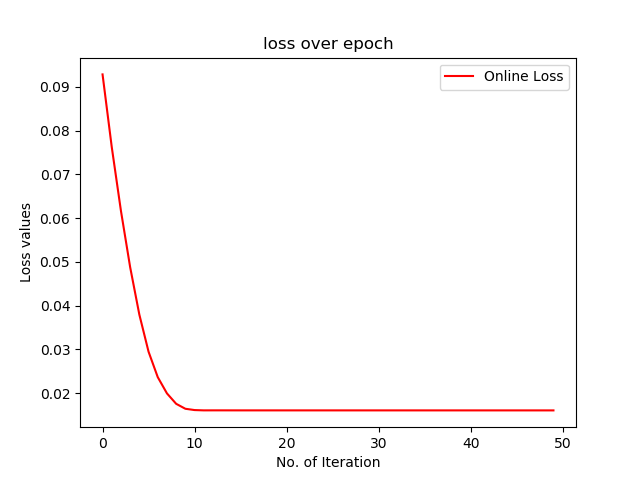
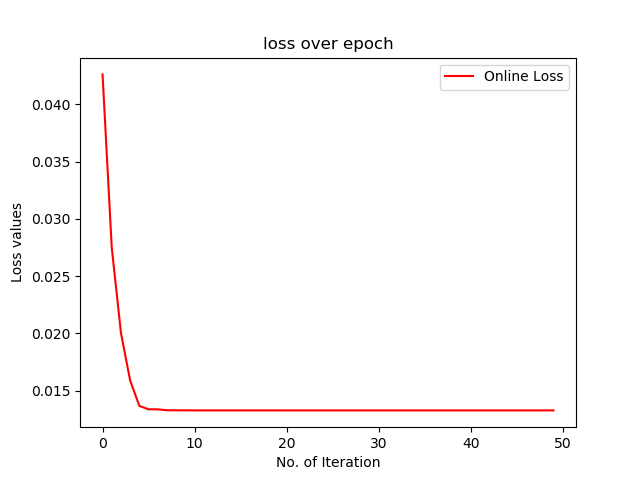
UpScaled: image size 256X212  4 extra CNN layer

diff --git a/train.py b/train.py
@@ -30,8 +30,8 @@ import config as args
 from img_utils import *
 from colorama import Fore, Back, Style
 
-WIDTH = 128
-HEIGHT = 106
+WIDTH = 256
+HEIGHT = 212
 
 ACT_SIZE = 4
 ACT_FET = 20
@@ -44,11 +44,17 @@ chan_layer_1 = 16
 chan_layer_2 = 16
 chan_layer_3 = 32
 chan_layer_4 = 32
+chan_layer_4 = 64
+chan_layer_5 = 128
+chan_layer_6 = 256
+chan_layer_7 = 512
+chan_layer_8 = 512
+
 pool_size = 3
 
 ''' Dimension of input image'''
-W = 128.0 ##!!!! Important to make it float to prevent integer division becomes zeros
-H = 106.0
+W = 256 ##!!!! Important to make it float to prevent integer division becomes zeros
+H = 212
 
 #Training Params
 epochs =50
@@ -59,7 +65,6 @@ sim_out_gt =np.random.rand(10,)
 com_out_gt =np.random.rand(10,)
 
 #saving path
-cwd = str(pathlib.Path(__file__).parent.resolve())
 BASE_DIR = os.path.dirname(os.path.dirname(os.path.abspath(__file__)))
 cwd = os.path.join(BASE_DIR, 'PushNet/trained_models/')
 save_path = cwd +"push_net_model.pth"
@@ -77,28 +82,48 @@ class COM_CNN(nn.Module):
         self.conv1 = nn.Sequential(
                 nn.Conv2d(
                     in_channels=1,
-                    out_channels=chan_layer_1,
+                    out_channels=chan_layer_1, #chan_layer_1 = 16
                     kernel_size=3,
                     stride=1,
                     padding=2,
-                    ),
+                    ), # output ->108 X 130
                 nn.ReLU(),
-                nn.MaxPool2d(kernel_size=pool_size),
+                nn.MaxPool2d(kernel_size=pool_size), #->36 X 43
                 )
         self.conv2 = nn.Sequential(
-                nn.Conv2d(chan_layer_1, chan_layer_2, 3, 1, 2),
+                nn.Conv2d(chan_layer_1, chan_layer_2, 3, 1, 2), # ->38 x 45
                 nn.ReLU(),
-                nn.MaxPool2d(kernel_size=pool_size),
+                nn.MaxPool2d(kernel_size=pool_size), #-> 12 X 15
                 )
         self.conv3 = nn.Sequential(
-                nn.Conv2d(chan_layer_2, chan_layer_3, 3, 1, 2),
+                nn.Conv2d(chan_layer_2, chan_layer_3, 3, 1, 2), #-> 14 X 17
                 nn.ReLU(),
-                nn.MaxPool2d(kernel_size=pool_size),
+                nn.MaxPool2d(kernel_size=pool_size), #-> 4 X 5
                 )
         self.conv4 = nn.Sequential(
-                nn.Conv2d(chan_layer_3, chan_layer_4, 3, 1, 2),
+                nn.Conv2d(chan_layer_3, chan_layer_4, 3, 1, 2), #->6 X 7
                 nn.ReLU(),
-                nn.MaxPool2d(kernel_size=pool_size),
+                nn.MaxPool2d(kernel_size=pool_size), # -> 2 X 2
+                )
+        self.conv5 = nn.Sequential(
+                nn.Conv2d(chan_layer_4, chan_layer_5, 3, 1, 2), #->6 X 7
+                nn.ReLU(),
+                nn.MaxPool2d(kernel_size=pool_size), # -> 2 X 2
+                )
+        self.conv6 = nn.Sequential(
+                nn.Conv2d(chan_layer_5, chan_layer_6, 3, 1, 2), #->6 X 7
+                nn.ReLU(),
+                nn.MaxPool2d(kernel_size=pool_size), # -> 2 X 2
+                )
+        self.conv7 = nn.Sequential(
+                nn.Conv2d(chan_layer_6, chan_layer_7, 3, 1, 2), #->6 X 7
+                nn.ReLU(),
+                nn.MaxPool2d(kernel_size=pool_size), # -> 2 X 2
+                )
+        self.conv8 = nn.Sequential(
+                nn.Conv2d(chan_layer_7, chan_layer_8, 3, 1, 2), #->6 X 7
+                nn.ReLU(),
+                nn.MaxPool2d(kernel_size=pool_size), # -> 2 X 2
                 )
         self.init_weight()
 
@@ -113,6 +138,10 @@ class COM_CNN(nn.Module):
         x = self.conv2(x)
         x = self.conv3(x)
         x = self.conv4(x)
+        x = self.conv5(x)
+        x = self.conv6(x)
+        x = self.conv7(x)
+        x = self.conv8(x)
         x = x.view(x.size(0), -1)
         return x
 
@@ -149,8 +178,8 @@ class COM_net_sim(nn.Module):
         ''' get image and action feature representation'''
 
         ''' flatten mini-batch sequence of images'''
-        f1 = self.cnn(I1.view(-1, 1, 106, 128))
-        fg = self.cnn(Ig.view(-1, 1, 106, 128))
+        f1 = self.cnn(I1.view(-1, 1, H, W)) #(height, weidth)-> input image size
+        fg = self.cnn(Ig.view(-1, 1, H, W)) #(height, weidth)-> input image size
         ''' flatten mini-batch sequence of action'''
         fa1 = self.linear_act(a1.view(-1, 4))
 
@@ -207,7 +236,8 @@ class PushController:
         
 
         ## get indices of end push points inside object mask
-        img_inner = cv2.resize(img.copy(), (0,0), fx=s, fy=s, interpolation=cv2.INTER_AREA)
+        img_inner = cv2.resize(img.copy(), (0,0), fx=s, fy=s, interpolation=cv2.INTER_LINEAR)
+        print('>>>>>>>>>>>>>>>>>....', img.shape)
         h, w = img_inner.shape
         img_end = np.zeros((int(H), int(W)))
         img_end[(int(H)-h)//2:(int(H)+h)//2, (int(W)-w)//2:(int(W)+w)//2] = img_inner.copy()
@@ -223,7 +253,6 @@ class PushController:
         h, w = img_outer2.shape
         img_start_out = np.zeros((int(H), int(W)))
         img_start_out = img_outer2.copy()[(h-int(H))//2:(h+int(H))//2, (w-int(W))//2:(w+int(W))//2]
-
         img_start = img_start_out.copy() - img_start_safe.copy()
         (outside_y, outside_x) = np.where(img_start.copy()>100)
 
@@ -355,7 +384,6 @@ def train_model(train_dl, model):
                                     prepared_data[3], #goal image
                                     prepared_data[4], #number of actions: for LSTM module
                                     prepared_data[5]) #batchsize
-
             loss_sim = criterion(sim_out.data.sum(1).float(), torch.from_numpy(sim_out_gt).float().cuda())
             loss_com = criterion(com_out.data.sum(1).float(), torch.from_numpy(com_out_gt).float().cuda())
             #NOTE: Modify constant according to simulator values
@@ -395,7 +423,7 @@ def draw_loss(loss:list, title:str)->None:
 
 
 if __name__ == "__main__":
-    img = cv2.imread("test.jpg")[:,:,0]
+    img = cv2.resize(cv2.imread("target_pose_post_processing.png"), (256, 212))[:,:,0]
     img_in_next = generate_goal_img(img.copy(), 30, 10, -10)
     actions = PushController()
     actions = actions.sample_action(img=img, num_actions=args.num_action)
